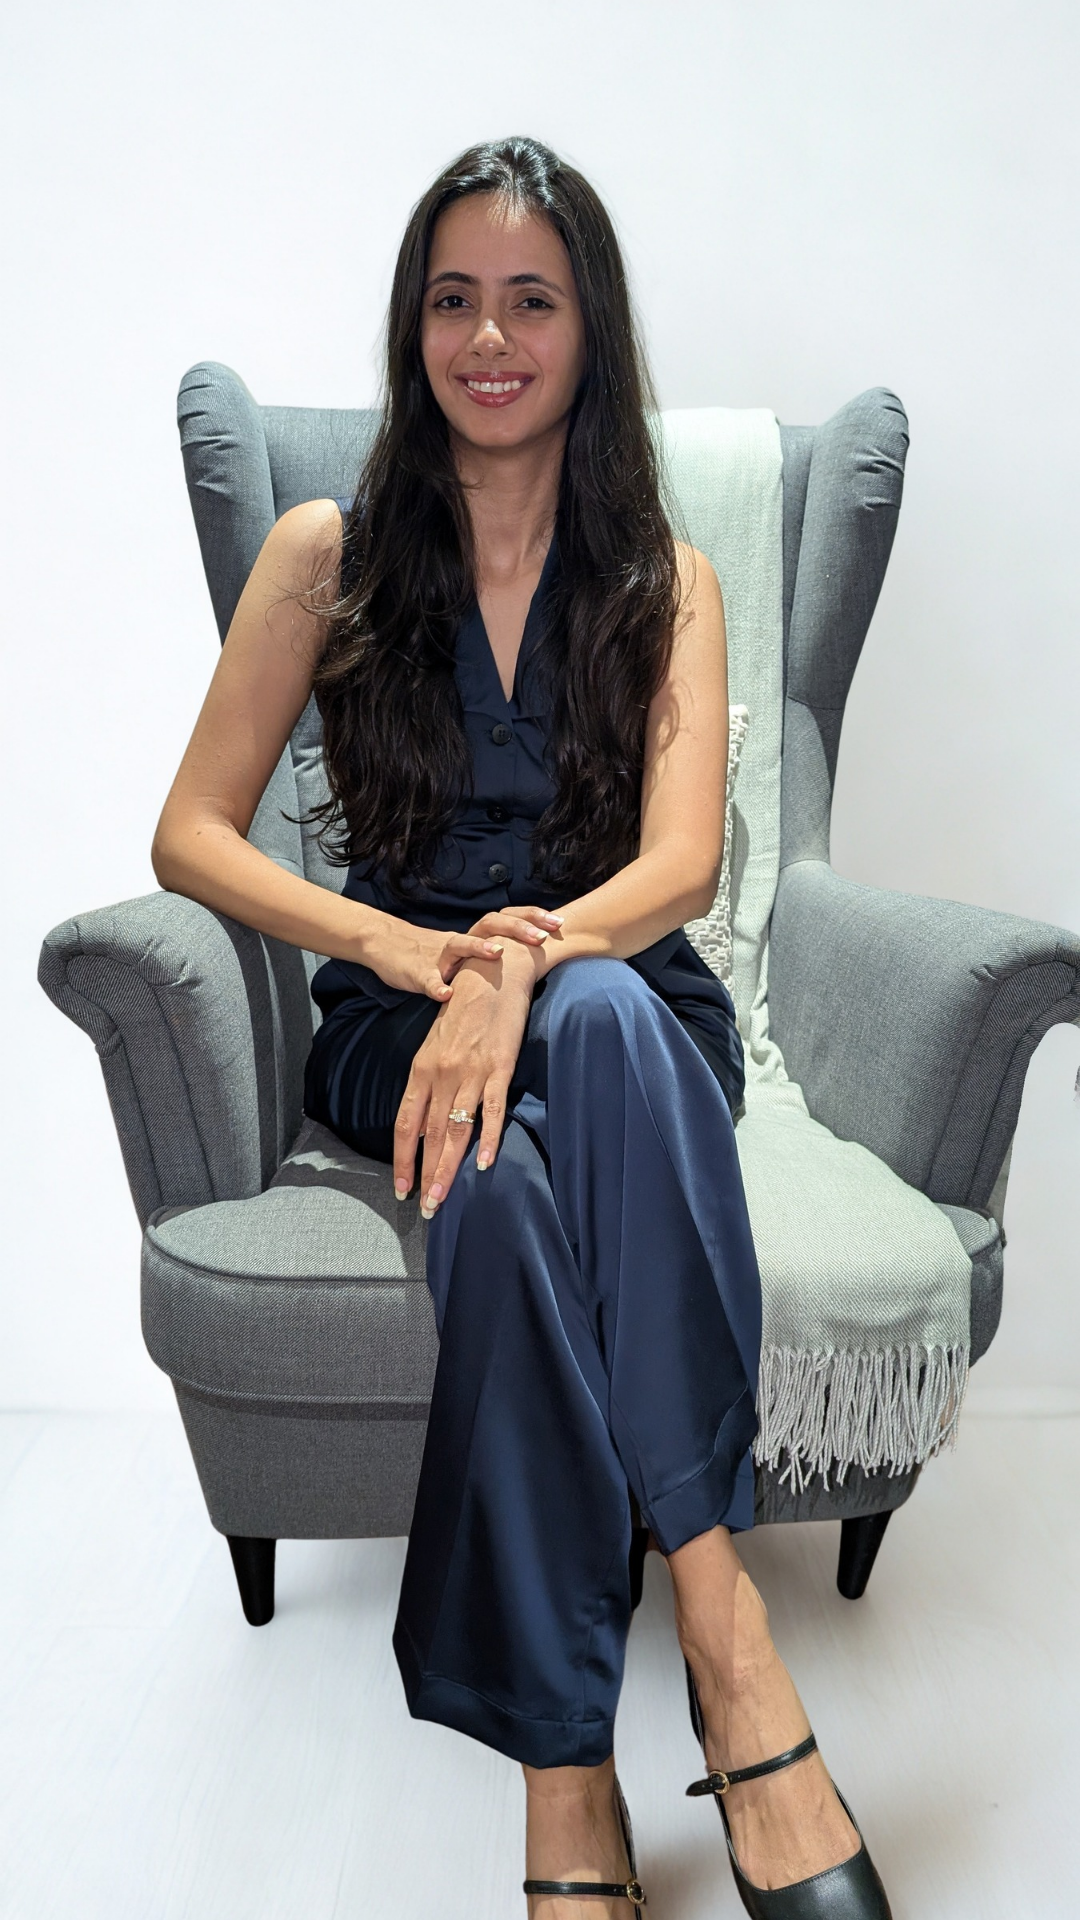
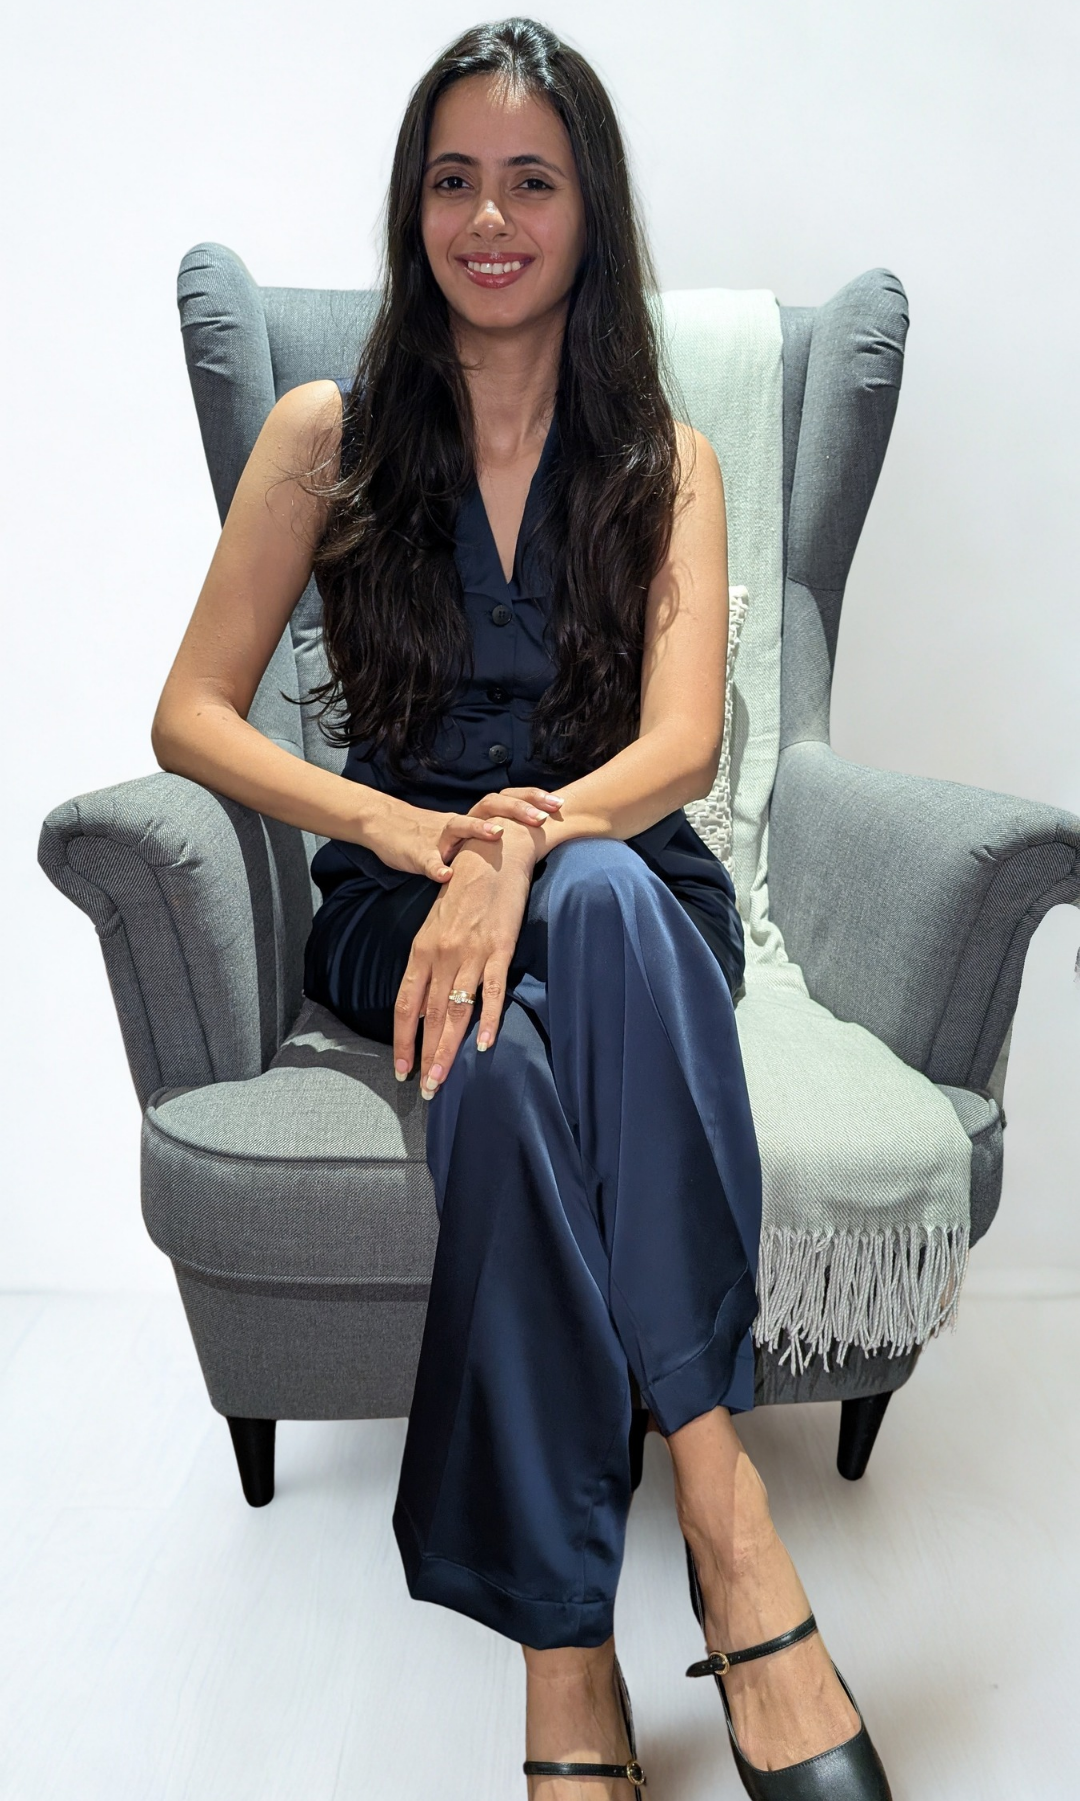
assets changed

diff --git a/src/components/SiteHeader.tsx b/src/components/SiteHeader.tsx
@@ -4,7 +4,7 @@ import { Menu } from "lucide-react";
 import { Sheet, SheetContent, SheetTrigger } from "@/components/ui/sheet";
 import { cn } from "@/lib/utils";
 import logo from "@/assets/logo.png";
-import accBadge from "@/assets/acc-badge.png";
+import pccBadge from "@/assets/pcc-badge.png";
 
 const links = [
   { to: "/", label: "Home" },
@@ -51,7 +51,7 @@ const SiteHeader = () => {
 
         <div className="flex items-center gap-2">
           <img
-            src={accBadge}
+            src={pccBadge}
             alt="ICF Associate Certified Coach"
             className="h-12 "
           />